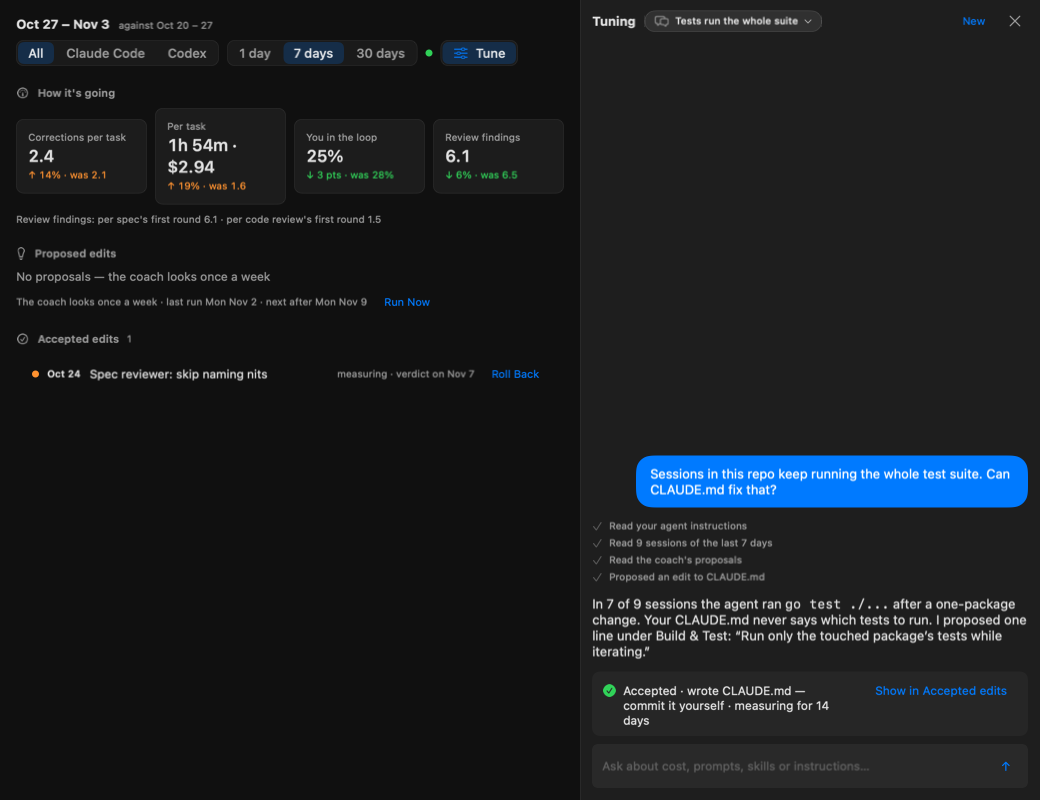
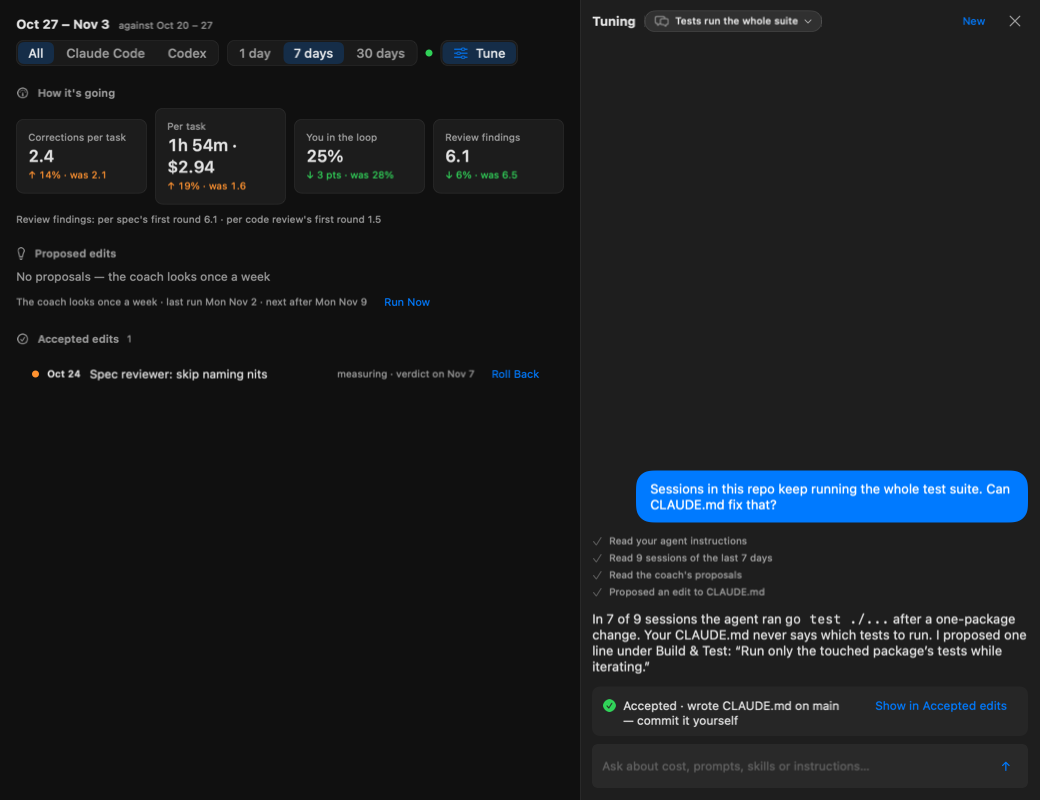
docs(design): tuning chat — repo edit folded line names the branch (ask #1170) (#1517)

Changed region(s): [[0.5538, 0.5625, 1.0, 0.9062]]

diff --git a/WatchtowerDesktop/Tests/DesignShots/DesignShotFixtures+TuningChat.swift b/WatchtowerDesktop/Tests/DesignShots/DesignShotFixtures+TuningChat.swift
@@ -222,7 +222,7 @@ enum TuningChatTexts {
     static let turnError = "The model stopped: overloaded — the service is busy. Nothing was proposed."
     static let accepted = "Accepted · measuring for 14 days"
     /// The folded line of an accepted workbench repository file (§4.3a).
-    static let acceptedRepo = "Accepted · wrote CLAUDE.md — commit it yourself · measuring for 14 days"
+    static let acceptedRepo = "Accepted · wrote CLAUDE.md on main — commit it yourself"
     static let showAccepted = "Show in Accepted edits"
     static let skillAsk = "The review-pr skill makes the agent read every changed file. Can we fix that?"
     static let skillAnswer = "In 9 of 12 review sessions the agent opened every changed file in full before "

diff --git a/docs/superpowers/specs/2026-11-03-tuning-chat-design.md b/docs/superpowers/specs/2026-11-03-tuning-chat-design.md
@@ -146,7 +146,7 @@ The chat may also edit five instruction files inside the workbench's own folder,
 | Loading | the report is still loading: "Reading this workbench's analytics…" and the composer enabled |
 | Streaming / busy | the streaming row; the composer shows **Stop** |
 | Error | the turn failed: the error line from the model + **Retry** |
-| Proposal | the coach card inline: open; accepting (buttons disabled, as today); stale — the card's existing error line "The text changed since — this proposal is closed" (`CoachCenter`, unchanged); after Accept the card in the feed folds to one line "Accepted · measuring for 14 days" with **Show in Accepted edits** (the pane's log keeps Roll Back); for a workbench repository file the line reads "Accepted · wrote <path> — commit it yourself · measuring for 14 days" (§4.3a, mockup `tuning-chat-proposal-accepted-repo`) |
+| Proposal | the coach card inline: open; accepting (buttons disabled, as today); stale — the card's existing error line "The text changed since — this proposal is closed" (`CoachCenter`, unchanged); after Accept the card in the feed folds to one line "Accepted · measuring for 14 days" with **Show in Accepted edits** (the pane's log keeps Roll Back); for a workbench repository file the line reads "Accepted · wrote <path> on <branch> — commit it yourself · measuring for 14 days" (§4.3a, mockup `tuning-chat-proposal-accepted-repo`) |
 | No tools | ollama: the figures line stays, the starters are hidden, "Tuning tools need Claude or Codex — pick one in Settings → System → AI" + **Open Settings** |
 | Agent filter | the pane header, as in the mockups: **All / Claude Code / Codex** (only when both agents have sessions in the period, or a non-All filter is chosen), then the period picker, then **Tune**; the Context and Skills blocks keep main's caption **Not measured for Codex sessions.** (`AgentAnalyticsCodexShare.notMeasuredLine`, D51); the picker's help (macOS tooltip on hover) reads "Codex sessions count when they were started from a Watchtower workbench terminal" (D57); no other note. A tooltip is not drawn in a static shot, so no mockup state shows it; its text is pinned in `AgentAnalyticsFormat.agentHelp` and tested |
 | No tools, midway | the provider changed to ollama in an open conversation: the earlier turns and an open card stay, with Accept / Decline enabled; the no-tools line and **Open Settings** sit above the composer (mockup `tuning-chat-no-tools-midway`) |

diff --git a/docs/design/mockups/tuning-chat/README.md b/docs/design/mockups/tuning-chat/README.md
@@ -24,7 +24,7 @@ sections (`CoachSectionsView`) and the Statistics blocks. All data is synthetic.
 | Proposal: accepting (buttons disabled while Accept runs) | §4.4 | `tuning-chat-proposal-accepting-{light,dark}.png` |
 | Proposal: accepted, folded to one line, "Show in Accepted edits" | §4.4 | `tuning-chat-proposal-accepted-{light,dark}.png` |
 | Proposal: stale (the card's current error line) | §4.4 | `tuning-chat-proposal-stale-{light,dark}.png` |
-| Proposal: accepted edit of the workbench folder's CLAUDE.md, folded to "Accepted · wrote CLAUDE.md — commit it yourself · measuring for 14 days" (ask #1165) | §4.3a, §4.4 | `tuning-chat-proposal-accepted-repo-{light,dark}.png` |
+| Proposal: accepted edit of the workbench folder's CLAUDE.md, folded to "Accepted · wrote CLAUDE.md on main — commit it yourself" (asks #1165, #1170) | §4.3a, §4.4 | `tuning-chat-proposal-accepted-repo-{light,dark}.png` |
 | No tools (ollama): Open Settings | §4.1, §4.4 | `tuning-chat-no-tools-{light,dark}.png` |
 | No tools midway: provider switched to ollama mid-conversation, the open card keeps Accept / Decline, no-tools line above the composer | §4.1, §4.4 | `tuning-chat-no-tools-midway-{light,dark}.png` |
 | Narrow: panel at 360 pt, evidence above the buttons | §4.4 | `tuning-chat-narrow-{light,dark}.png` |
